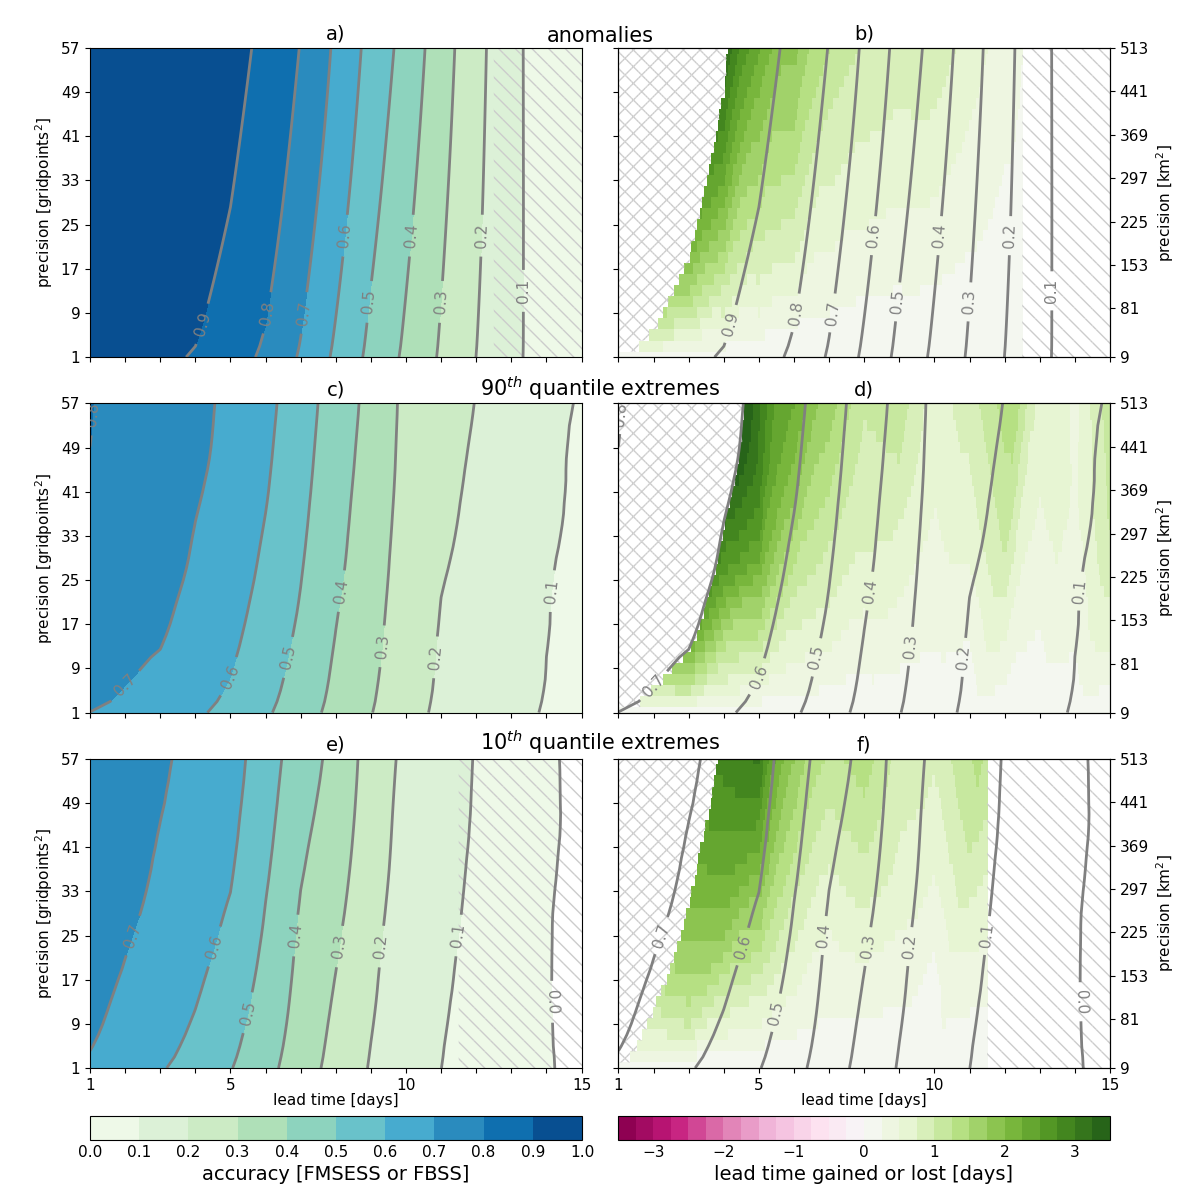
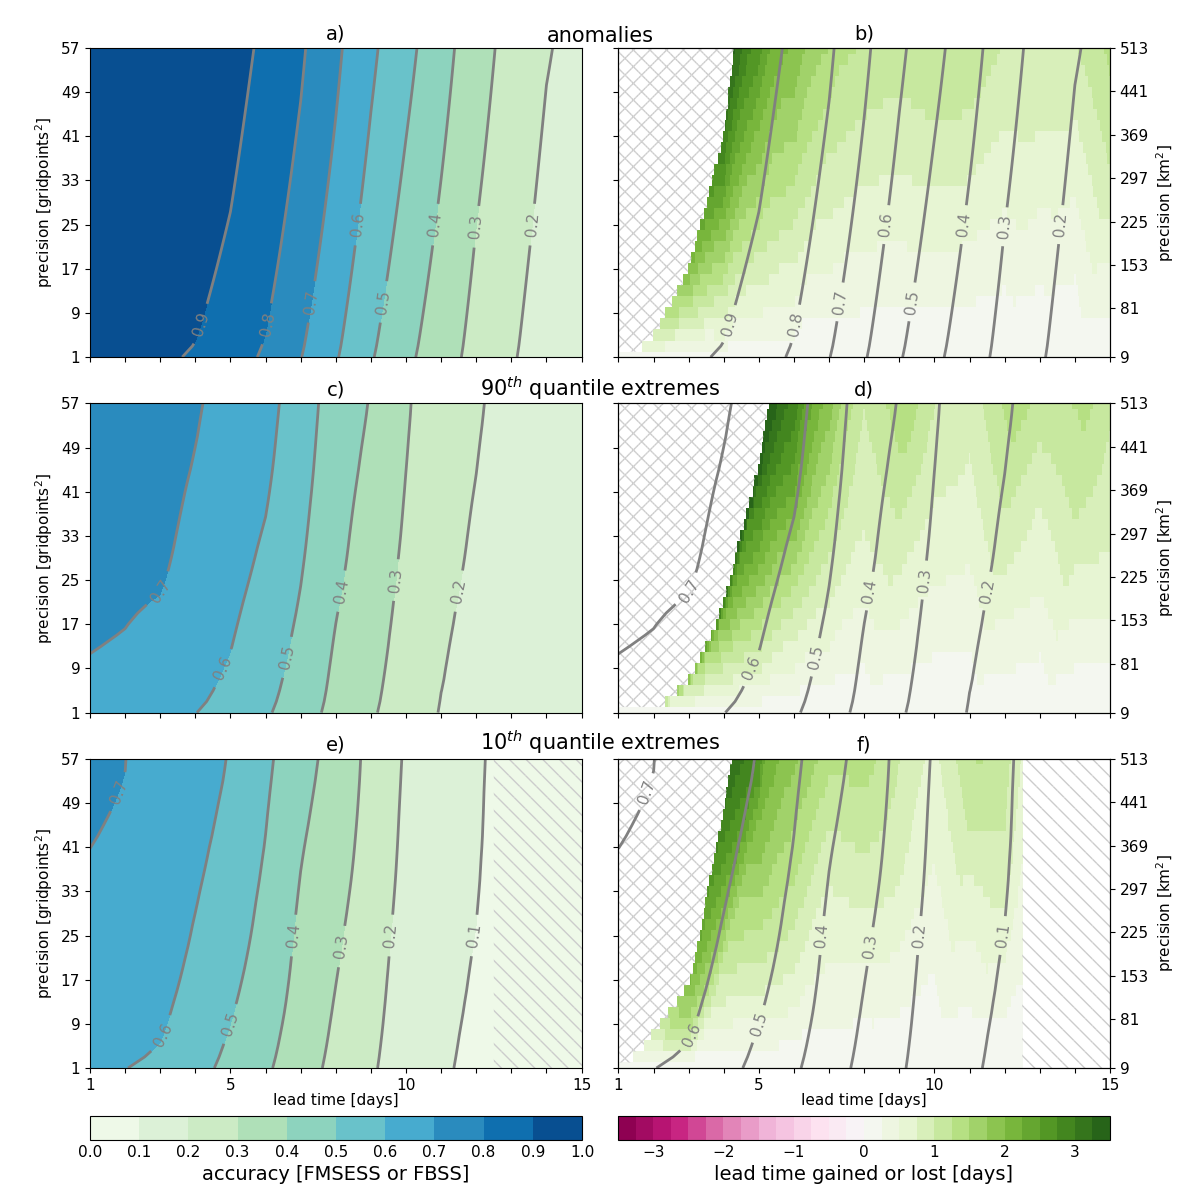
update

diff --git a/code/verify/calc-score-s2s-forecast.py b/code/verify/calc-score-s2s-forecast.py
@@ -26,16 +26,16 @@ from forsikring  import misc,s2s,verify,config
 
 # INPUT -----------------------------------------------
 score_flag               = 'fbss'
-time_flag                = 'weekly'                 # daily or weekly
-variable                 = 'tp24'                   # tp24,rn24,mx24rn6,mx24tp6,mx24tpr
+time_flag                = 'daily'                 # daily or weekly
+variable                 = 't2m24'                   # tp24,rn24,mx24rn6,mx24tp6,mx24tpr
 domain                   = 'europe'                 # europe or norway only?
 first_forecast_date      = '20200102'               # first initialization date of forecast (either a monday or thursday)
-number_forecasts         = 313                      # number of forecasts 
-season                   = 'mjjas'                 # pick forecasts in specific season (djf,mam,jja,son,annual)
-grids                    = ['0.25x0.25','0.5x0.5']
+number_forecasts         = 209                      # number of forecasts 
+season                   = 'annual'                 # pick forecasts in specific season (djf,mam,jja,son,annual)
+grids                    = ['0.25x0.25']
 box_sizes                = np.arange(1,61,2)        # smoothing box size in grid points per side. Must be odd!
 number_bootstrap         = 10000                    # number of times to shuffle initialization dates for error bars
-pval                     = 0.1
+pval                     = 0.9
 dt                       = 0.05                     # interpolation for lead time gained & max skill calculation
 write2file               = True
 # -----------------------------------------------------
@@ -68,7 +68,7 @@ for grid in grids:
     filename_out        = filename_hr_out if grid == '0.25x0.25' else filename_lr_out
     dim                 = verify.get_data_dimensions(grid, time_flag, domain)
     box_sizes_temp      = verify.match_box_sizes_high_to_low_resolution(grid,box_sizes)
-    
+
     # initialize output arrays
     [score,score_bootstrap,sig] = verify.initialize_misc_arrays(score_flag,dim,box_sizes_temp,number_bootstrap)
     forecast_error              = verify.initialize_error_array(dim,box_sizes_temp,forecast_dates)

diff --git a/code/preprocess/era5/calc-binary-forecast-format.py b/code/preprocess/era5/calc-binary-forecast-format.py
@@ -37,20 +37,20 @@ def initialize_quantile_array(variable,box_sizes,time_flag,dim):
 
 
 # input ----------------------------------------------
-time_flag           = 'daily'                   # daily or weekly
-variable            = 'tp24'                  # tp24, rn24, mx24tp6, mx24rn6, mx24tpr
-first_forecast_date = '20230803'               # first initialization date of forecast (either a monday or thursday)
-number_forecasts    = 6                        # number of forecast initializations
+time_flag           = 'weekly'                   # daily or weekly
+variable            = 't2m24'                  # tp24, rn24, mx24tp6, mx24rn6, mx24tpr
+first_forecast_date = '20200102'               # first initialization date of forecast (either a monday or thursday)
+number_forecasts    = 105                        # number of forecast initializations
 season              = 'annual'
-grid                = '0.25x0.25'              # '0.25x0.25' or '0.5x0.5'
-pval                = 0.99                      # percentile values
-domain              = 'scandinavia'
+grid                = '0.5x0.5'              # '0.25x0.25' or '0.5x0.5'
+pval                = 0.9                      # percentile values
+domain              = 'europe'
 box_sizes           = np.arange(1,61,2)        # smoothing box size in grid points per side. Must be odd!
 write2file          = True
 # ----------------------------------------------------
 
-#forecast_dates = s2s.get_forecast_dates(first_forecast_date,number_forecasts,season).strftime('%Y-%m-%d').values
-forecast_dates = pd.date_range(first_forecast_date, periods=number_forecasts).strftime('%Y-%m-%d')
+forecast_dates = s2s.get_forecast_dates(first_forecast_date,number_forecasts,season).strftime('%Y-%m-%d').values
+#forecast_dates = pd.date_range(first_forecast_date, periods=number_forecasts).strftime('%Y-%m-%d')
 print(forecast_dates)
 
 for date in forecast_dates:

diff --git a/code/preprocess/s2s/calc-anomaly-from-forecast.py b/code/preprocess/s2s/calc-anomaly-from-forecast.py
@@ -9,20 +9,20 @@ import pandas   as pd
 from forsikring import misc,s2s,config,verify
 
 # INPUT -----------------------------------------------
-time_flag           = 'daily'                 # daily or weekly
-variable            = 'tp24'              # tp24,rn24,mx24rn6,mx24tp6,mx24tpr
-first_forecast_date = '20230803'             # first initialization date of forecast (either a monday or thursday)
-number_forecasts    = 6                      # number of forecasts 
+time_flag           = 'weekly'                 # daily or weekly
+variable            = 't2m24'              # tp24,rn24,mx24rn6,mx24tp6,mx24tpr
+first_forecast_date = '20200102'             # first initialization date of forecast (either a monday or thursday)
+number_forecasts    = 105                      # number of forecasts 
 season              = 'annual'
-grid                = '0.25x0.25'          # '0.25x0.25' & '0.5x0.5'
+grid                = '0.5x0.5'          # '0.25x0.25' & '0.5x0.5'
 domain              = 'europe'
 box_sizes           = np.arange(1,61,2)        # smoothing box size in grid points per side. Must be odd!  
 write2file          = True
 # -----------------------------------------------------
 
 # get forecast dates 
-#forecast_dates = s2s.get_forecast_dates(first_forecast_date,number_forecasts,season).strftime('%Y-%m-%d')
-forecast_dates = pd.date_range(first_forecast_date, periods=number_forecasts).strftime('%Y-%m-%d') 
+forecast_dates = s2s.get_forecast_dates(first_forecast_date,number_forecasts,season).strftime('%Y-%m-%d')
+#forecast_dates = pd.date_range(first_forecast_date, periods=number_forecasts).strftime('%Y-%m-%d') 
 print(forecast_dates)
 
 for date in forecast_dates:

diff --git a/code/preprocess/s2s/calc-probability-from-forecast.py b/code/preprocess/s2s/calc-probability-from-forecast.py
@@ -37,13 +37,13 @@ def initialize_quantile_array(variable,box_sizes,time_flag,dim):
 
 # input ----------------------------------------------
 time_flag           = 'weekly'                   # daily or weekly
-variable            = 'tp24'                  # tp24, rn24, mx24tp6, mx24rn6, mx24tpr
-first_forecast_date = '20220103'               # first initialization date of forecast (either a monday or thursday)   
-number_forecasts    = 104                        # number of forecast initializations 
+variable            = 't2m24'                  # tp24, rn24, mx24tp6, mx24rn6, mx24tpr
+first_forecast_date = '20200102'               # first initialization date of forecast (either a monday or thursday)   
+number_forecasts    = 105                        # number of forecast initializations 
 season              = 'annual'
 grid                = '0.5x0.5'              # '0.25x0.25' or '0.5x0.5'
 box_sizes           = np.arange(1,61,2)        # smoothing box size in grid points per side. Must be odd!
-pval                = 0.1                     # percentile value  
+pval                = 0.9                     # percentile value  
 domain              = 'europe'
 write2file          = True
 # ----------------------------------------------------

diff --git a/code/preprocess/era5/calc-anomaly-forecast-format.py b/code/preprocess/era5/calc-anomaly-forecast-format.py
@@ -10,14 +10,14 @@ from forsikring import misc,s2s,config,verify
 
 # INPUT -----------------------------------------------
 time_flag           = 'daily'                 # daily or weekly
-variable            = 'tp24'              # tp24,rn24,mx24rn6,mx24tp6,mx24tpr
-first_forecast_date = '20230803'             # first initialization date of forecast (either a monday or thursday)
-number_forecasts    = 10                      # number of forecasts 
+variable            = 't2m24'              # tp24,rn24,mx24rn6,mx24tp6,mx24tpr
+first_forecast_date = '20200102'             # first initialization date of forecast (either a monday or thursday)
+number_forecasts    = 105                      # number of forecasts 
 season              = 'annual'
-grid                = '0.25x0.25'          # '0.25x0.25' & '0.5x0.5'
-domain              = 'scandinavia'
+grid                = '0.5x0.5'          # '0.25x0.25' & '0.5x0.5'
+domain              = 'europe'
 box_sizes           = np.arange(1,61,2)        # smoothing box size in grid points per side. Must be odd!  
-write2file          = False
+write2file          = True
 # -----------------------------------------------------
 
 # get forecast dates 

diff --git a/code/preprocess/s2s/calc-daily-from-6hourly.py b/code/preprocess/s2s/calc-daily-from-6hourly.py
@@ -13,10 +13,10 @@ from matplotlib  import pyplot as plt
 # INPUT ----------------------------------------------- 
 variables           = ['t2m24']                # tp24, rn24, mx24tp6, mx24rn6, mx24tpr
 product             = 'hindcast'              # hindcast or forecast ?
-first_forecast_date = '20200102' # first initialization date of forecast (either a monday or thursday)
-number_forecasts    = 105        # number of forecast initializations  
+first_forecast_date = '20201228' # first initialization date of forecast (either a monday or thursday)
+number_forecasts    = 2        # number of forecast initializations  
 season              = 'annual'
-grid                = '0.5x0.5'             # '0.25x0.25' or '0.5x0.5'
+grid                = '0.25x0.25'             # '0.25x0.25' or '0.5x0.5'
 write2file          = True
 # -----------------------------------------------------            
 

diff --git a/code/student/download-s2s-ecmwf-6hourly-forecast.py b/code/student/download-s2s-ecmwf-6hourly-forecast.py
@@ -23,11 +23,11 @@ from forsikring                  import config,misc,s2s
 
 # input -----------------------------------
 product             = 'forecast' # forecast/vr_forecast
-first_forecast_date = '20120102' # first initialization date of forecast (either a monday or thursday)
-number_forecast     = 1        # number of forecast initializations   
+first_forecast_date = '20200907' # first initialization date of forecast (either a monday or thursday)
+number_forecast     = 34        # number of forecast initializations   
 grid                = '0.25/0.25' # degree lat/lon resolution
 domain              = 'southern_norway'
-variables           = ['mwg6']
+variables           = ['tp','t2m','sd']
 comp_lev            = 5 # file compression level
 write2file          = True
 # -----------------------------------------

diff --git a/code/plot/plot-fig-S3.py b/code/plot/plot-fig-S3.py
@@ -62,9 +62,9 @@ write2file = True
 # define stuff         
 path_in           = config.dirs['verify_s2s_forecast_daily']
 path_out          = config.dirs['fig'] + 'paper/'
-filename_in_1     = 'fmsess_t2m24_daily_europe_annual_2021-01-04_2021-12-30_0.25x0.25.nc'
-filename_in_2     = 'fbss_t2m24_pval0.9_daily_europe_annual_2021-01-04_2021-12-30_0.25x0.25.nc'
-filename_in_3     = 'fbss_t2m24_pval0.1_daily_europe_annual_2021-01-04_2021-12-30_0.25x0.25.nc'
+filename_in_1     = 'fmsess_t2m24_daily_europe_annual_2020-01-02_2021-12-30_0.25x0.25.nc'
+filename_in_2     = 'fbss_t2m24_pval0.9_daily_europe_annual_2020-01-02_2021-12-30_0.25x0.25.nc'
+filename_in_3     = 'fbss_t2m24_pval0.1_daily_europe_annual_2020-01-02_2021-12-30_0.25x0.25.nc'
 figname_out       = 'fig_S3.png'
 
 # read in data

diff --git a/code/plot/plot-fig-04.py b/code/plot/plot-fig-04.py
@@ -84,7 +84,7 @@ ax[4].set_title('e)',fontsize=fontsize+3)
 ax[5].set_title('f)',fontsize=fontsize+3)
 
 fig.text(0.275,0.945,'1 gridpoint$^{2}$ precision',horizontalalignment='center',fontsize=fontsize+5)
-fig.text(0.74,0.945,'33 gridpoints$^{2}$ precision',horizontalalignment='center',fontsize=fontsize+5)
+fig.text(0.74,0.945,'33 gridpoint$^{2}$ precision',horizontalalignment='center',fontsize=fontsize+5)
 fig.text(0.025,0.75,'anomalies',rotation=90,fontsize=fontsize+5)
 fig.text(0.025,0.41,'90$^{th}$ quantile extremes',rotation=90,fontsize=fontsize+5)
 fig.text(0.025,0.135,'10$^{th}$ quantile extremes',rotation=90,fontsize=fontsize+5)
